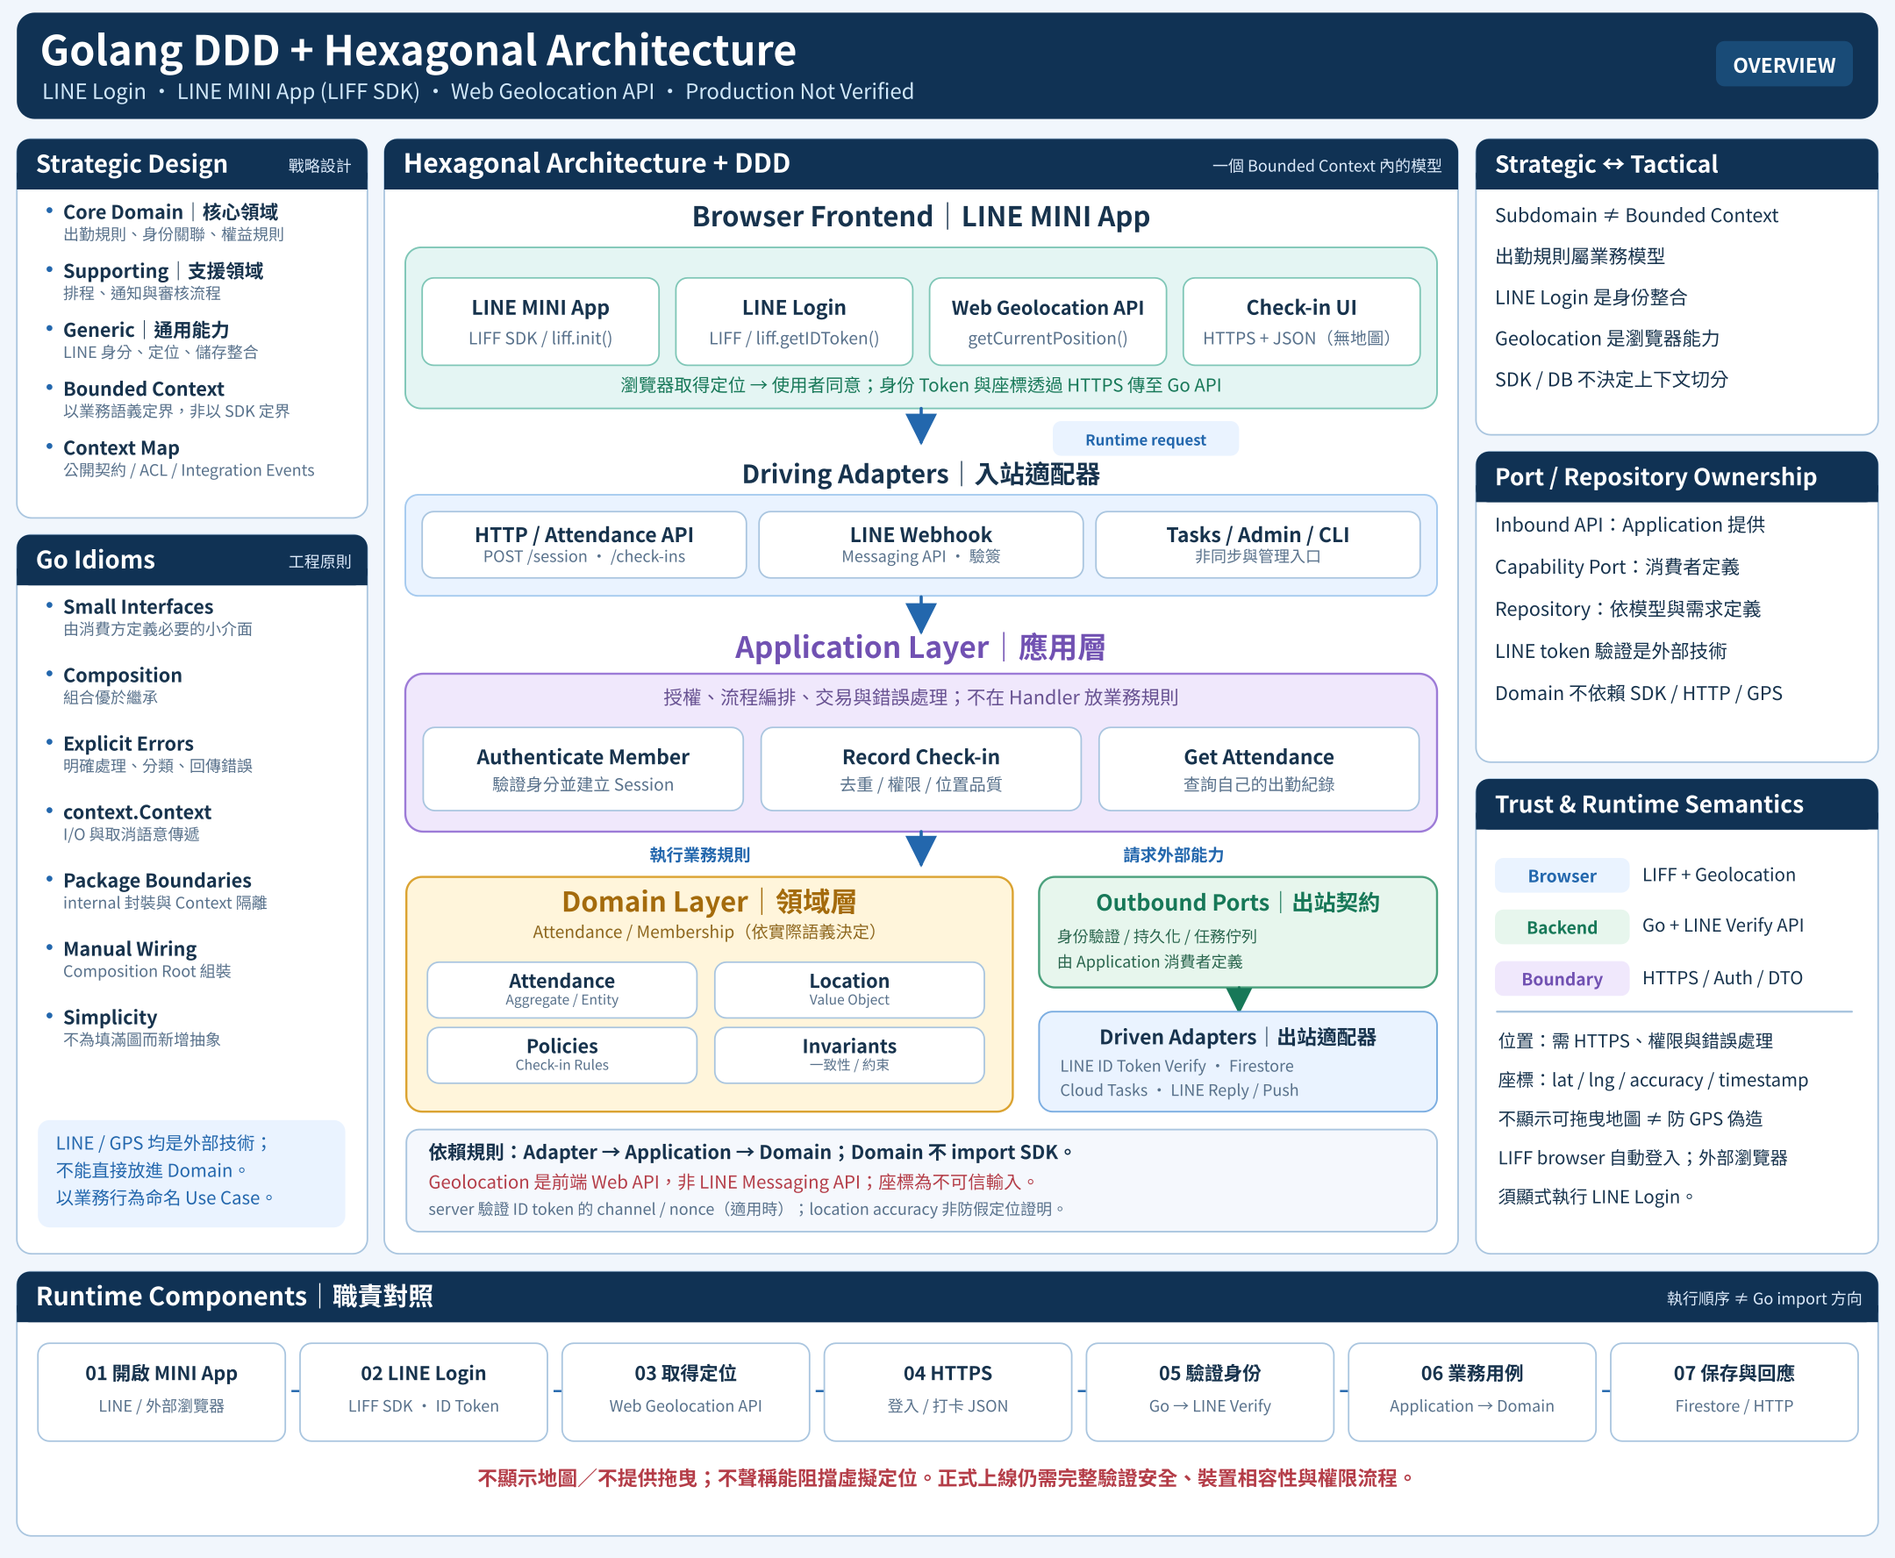
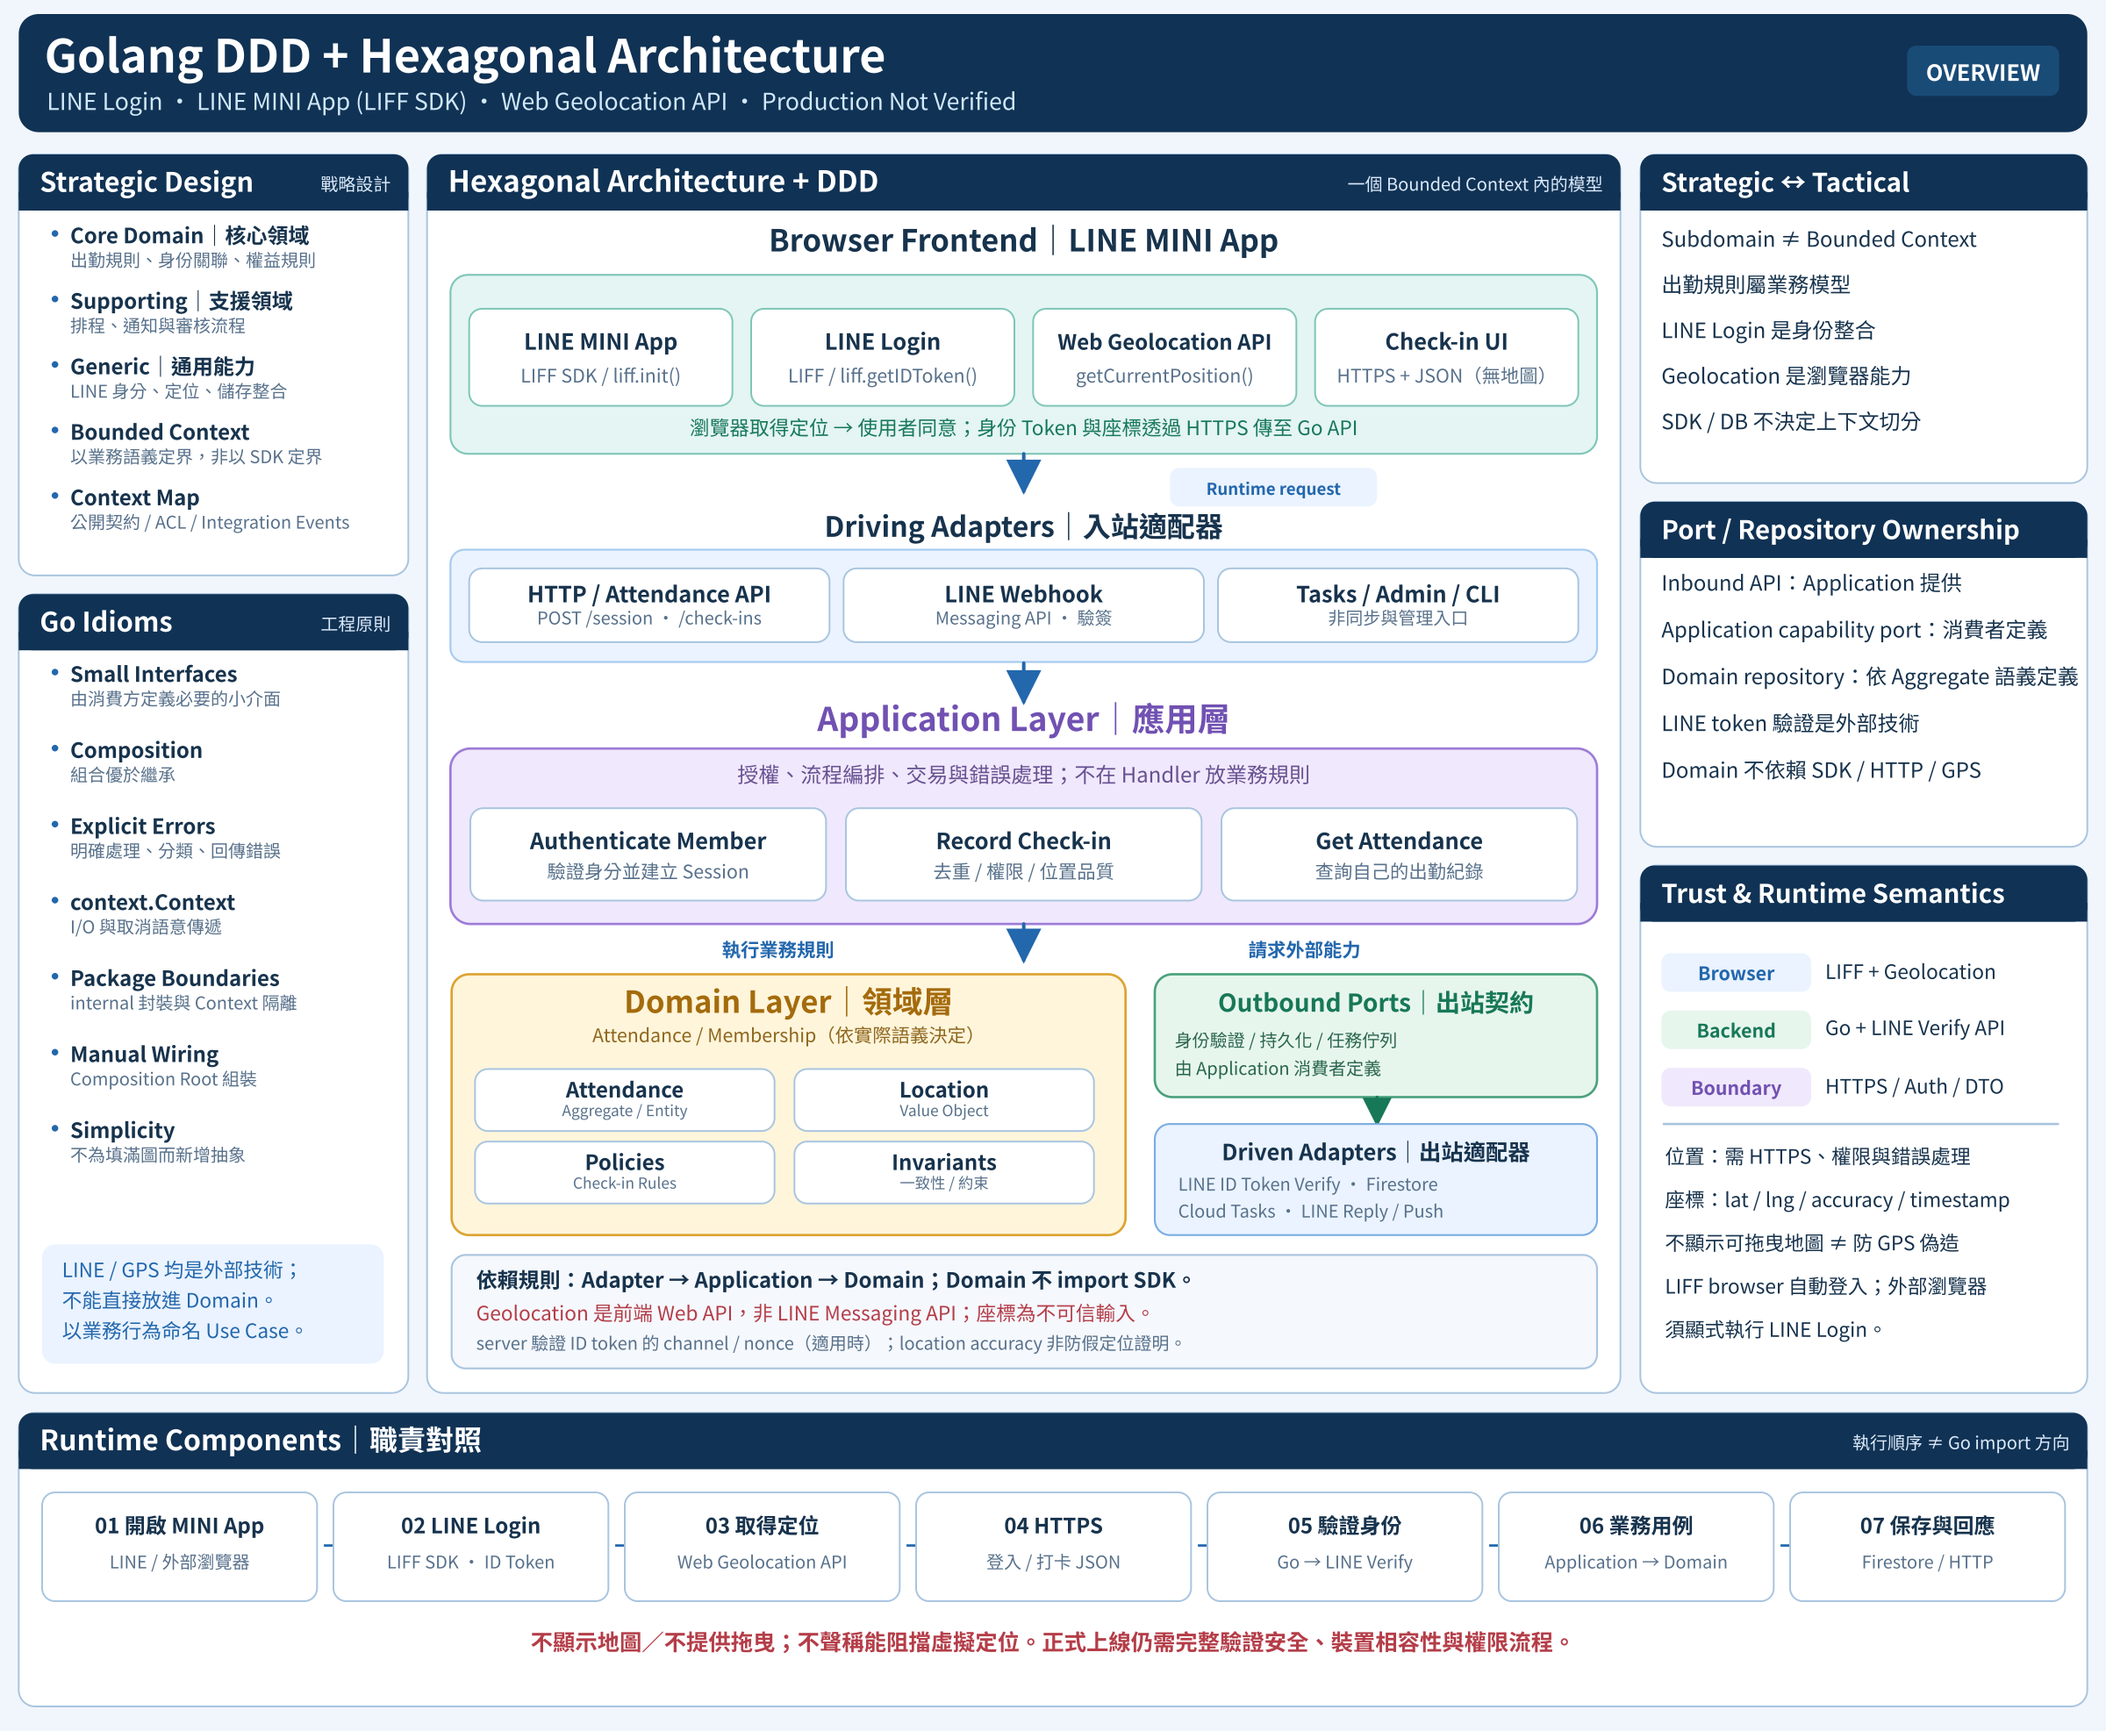
fix: restore architecture asset contracts

diff --git a/tests/architecture/design_contract_test.go b/tests/architecture/design_contract_test.go
@@ -85,10 +85,10 @@ func TestDesignContract(t *testing.T) {
 	if config.Width < 1000 || config.Height < 600 {
 		t.Fatalf("architecture blueprint asset is unexpectedly small: %dx%d", config.Width, config.Height)
 	}
-	if config.Width != 2400 || config.Height != 1650 {
-		t.Fatalf("architecture overview asset size = %dx%d, want 2400x1650", config.Width, config.Height)
+	if config.Width != 2400 || config.Height != 1973 {
+		t.Fatalf("architecture overview asset size = %dx%d, want 2400x1973", config.Width, config.Height)
 	}
[2 lines of base64/hex data omitted]
 
 	assets := []struct {
 		name                   string
@@ -97,19 +97,19 @@ func TestDesignContract(t *testing.T) {
 		required               []string
 	}{
 		{
[1 lines of base64/hex data omitted]
-			width: "1600", height: "1100", viewBox: "0 0 1600 1100",
-			required: []string{"非規範性概覽", "Staging/Production Not Verified", "dependency 指向 consumer"},
[1 lines of base64/hex data omitted]
+			width: "1800", height: "1480", viewBox: "0 0 1800 1480",
+			required: []string{"Golang DDD + Hexagonal Architecture", "Production Not Verified", "依賴規則：Adapter → Application → Domain"},
 		},
 		{
[1 lines of base64/hex data omitted]
-			width: "3600", height: "2560", viewBox: "0 0 3600 2560",
-			required: []string{"非規範性參考圖", "Layer-first Modular Monolith", "internal/bootstrap", "classified-safe retry", "unknown / manual reconciliation", "Application capability ports；Domain repository 由 Domain 擁有"},
[1 lines of base64/hex data omitted]
+			width: "3600", height: "2740", viewBox: "0 0 3600 2740",
+			required: []string{"非規範性", "Layer-first Modular Monolith", "internal/bootstrap/", "圖不等於已通過 Staging / Production 驗證"},
 		},
 		{
[1 lines of base64/hex data omitted]
-			width: "3200px", height: "2100px", viewBox: "0 0 3200 2100",
-			required: []string{"非規範性", "Layer-first Structure", "Staging/Production Not Verified", "unknown / manual reconciliation"},
[1 lines of base64/hex data omitted]
+			width: "3200", height: "2460", viewBox: "0 0 3200 2460",
+			required: []string{"非規範性工程藍圖", "Layer-first Structure", "生產環境 / 實體裝置尚未驗證", "Driven Adapter → Consumer Contract"},
 		},
 	}
 	for _, asset := range assets {
@@ -153,13 +153,13 @@ func TestDesignContract(t *testing.T) {
 			}
 			if asset.name == "go-ddd-hexagonal-architecture-engineering.svg" {
 				quality := groups["quality-targets"]
-				for _, marker := range []string{"Quality Targets", "Staging/Production Not Verified", "Classified-safe retries", "unknown / manual reconciliation"} {
+				for _, marker := range []string{"Quality Targets", "生產環境 / 實體裝置尚未驗證", "Reliability", "Idempotency"} {
 					if !strings.Contains(quality, marker) {
 						t.Errorf("quality-targets group is missing %q", marker)
 					}
 				}
-				if strings.Contains(quality, "✓") || !strings.Contains(quality, "•") {
-					t.Error("quality-targets must use neutral bullets, not completion checks")
+				if strings.Contains(quality, "✓") {
+					t.Error("quality-targets must not use completion checks")
 				}
 				ownership := groups["tactical-design"]
 				for _, marker := range []string{"Application capability port 由 consumer 擁有", "Domain repository 可由 Domain 擁有"} {
